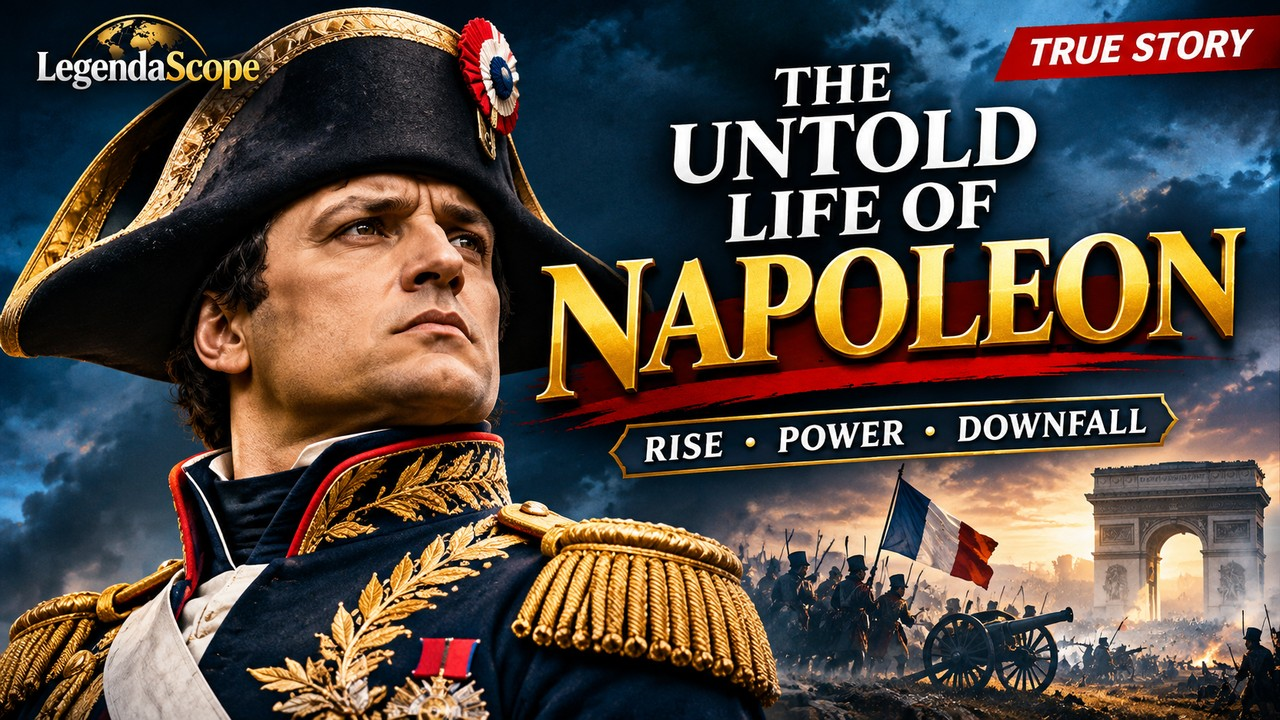
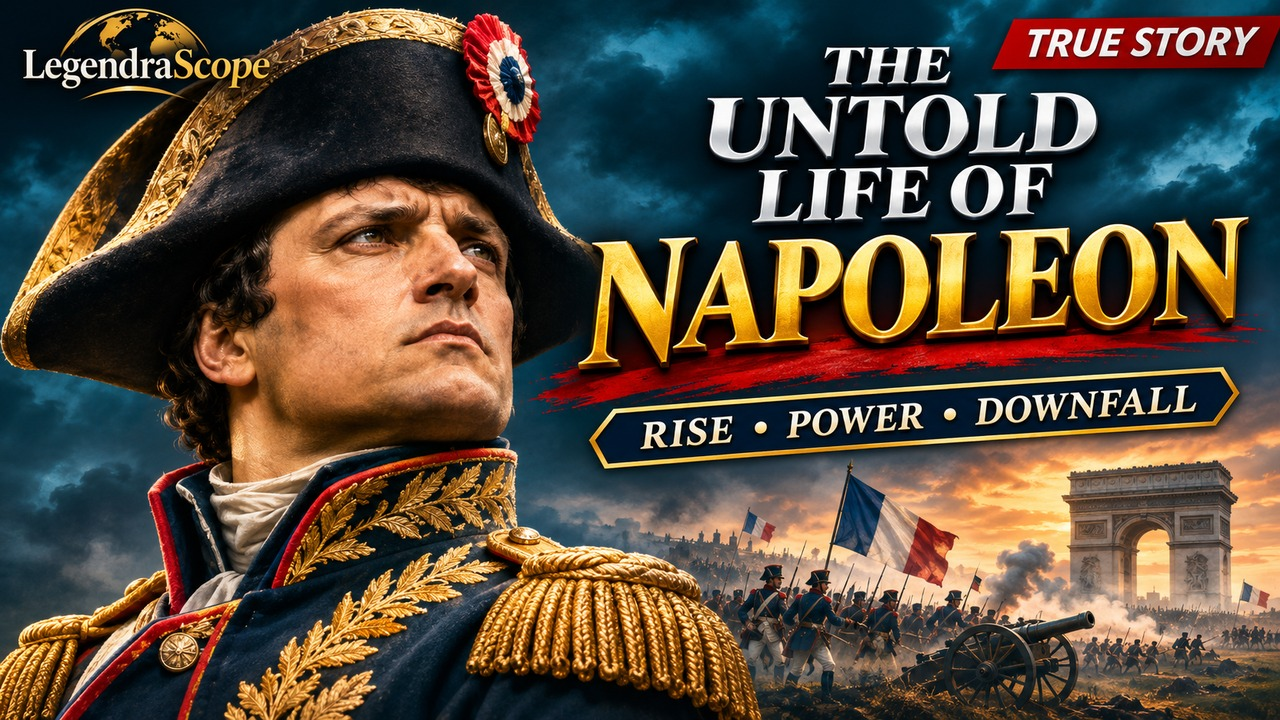
LegendraScope: corrected long + Short examples and a measured style guide

diff --git a/data/brand/star_life_stories/style.md b/data/brand/star_life_stories/style.md
@@ -1,0 +1,51 @@
+# LegendraScope — true-story thumbnail style
+
+Measured from examples/untold_life_napoleon.jpg (long) and
+examples/short_untold_life_napoleon.jpg (Short). Movie-poster look: the person
+large and close, a scene from their own story behind them, gold-and-silver
+title, red brush stroke, navy ribbon.
+
+## Colours
+- #F9E075 Gold highlight (top of the name)
+- #DD9C14 Gold mid
+- #9A5A06 Gold shadow (bottom of the name)
+- #F1F3F3 Silver light ("THE UNTOLD LIFE OF")
+- #C6C8CB Silver mid
+- #040E15 Outline dark (all title outlines and shadows)
+- #B4100A Brush red
+- #5E0B09 Brush red dark edge
+- #081421 Ribbon navy
+- #D4AB55 Ribbon border gold
+- #F0E2B6 Ribbon text ivory
+- #A00404 Tag red
+- #720C0D Tag red dark
+- #074359 Sky teal
+- #012D3D Sky deep
+- #F8B974 Sunset glow
+
+## Long (1280x720)
+- Person: head and shoulders, left 0-760 px, face about 300 px tall, eyes near
+  y 300, looking up and to the right; uniform/clothes run off the bottom edge.
+- Sky: stormy teal-navy clouds over the whole card; warm sunset glow only in
+  the lower right.
+- Scene from the person's story in the lower right (x 680-1280, y 430-720):
+  e.g. battle, flags, cannon, a famous building. No faces, no text.
+- Logo top left (x 20-275, y 10-100): gold globe arc above "LegendraScope",
+  "Legendra" ivory, "Scope" gold.
+- "TRUE STORY": red slanted tag flush in the top-right corner
+  (x 995-1263, y 11-65), white heavy italic.
+- Title column centred near x 900, top 10% to 62% of the card:
+  "THE" / "UNTOLD" / "LIFE OF" in heavy serif capitals, chrome silver with a
+  dark outline and drop shadow; the NAME on one line, the biggest text
+  (cap height about 110 px), gold gradient, dark outline, bevel highlight.
+- Red brush stroke under the lower half of the name, rising to the right.
+- Ribbon under it (x 590-1232, y 375-450): navy, gold border, pointed ends,
+  slightly rotated, three ivory serif words from the story ("RISE • POWER • DOWNFALL").
+
+## Short (1080x1920)
+- Logo top left, "TRUE STORY" top right, as on the long card.
+- Person in the upper 55%, head near the top, centred.
+- Title centred in the middle (about 40%-68% of the height), same styling, name
+  on one line across nearly the full width.
+- Ribbon right under the name (about 68%-75%).
+- Story scene across the bottom quarter, sunset glow behind it.
